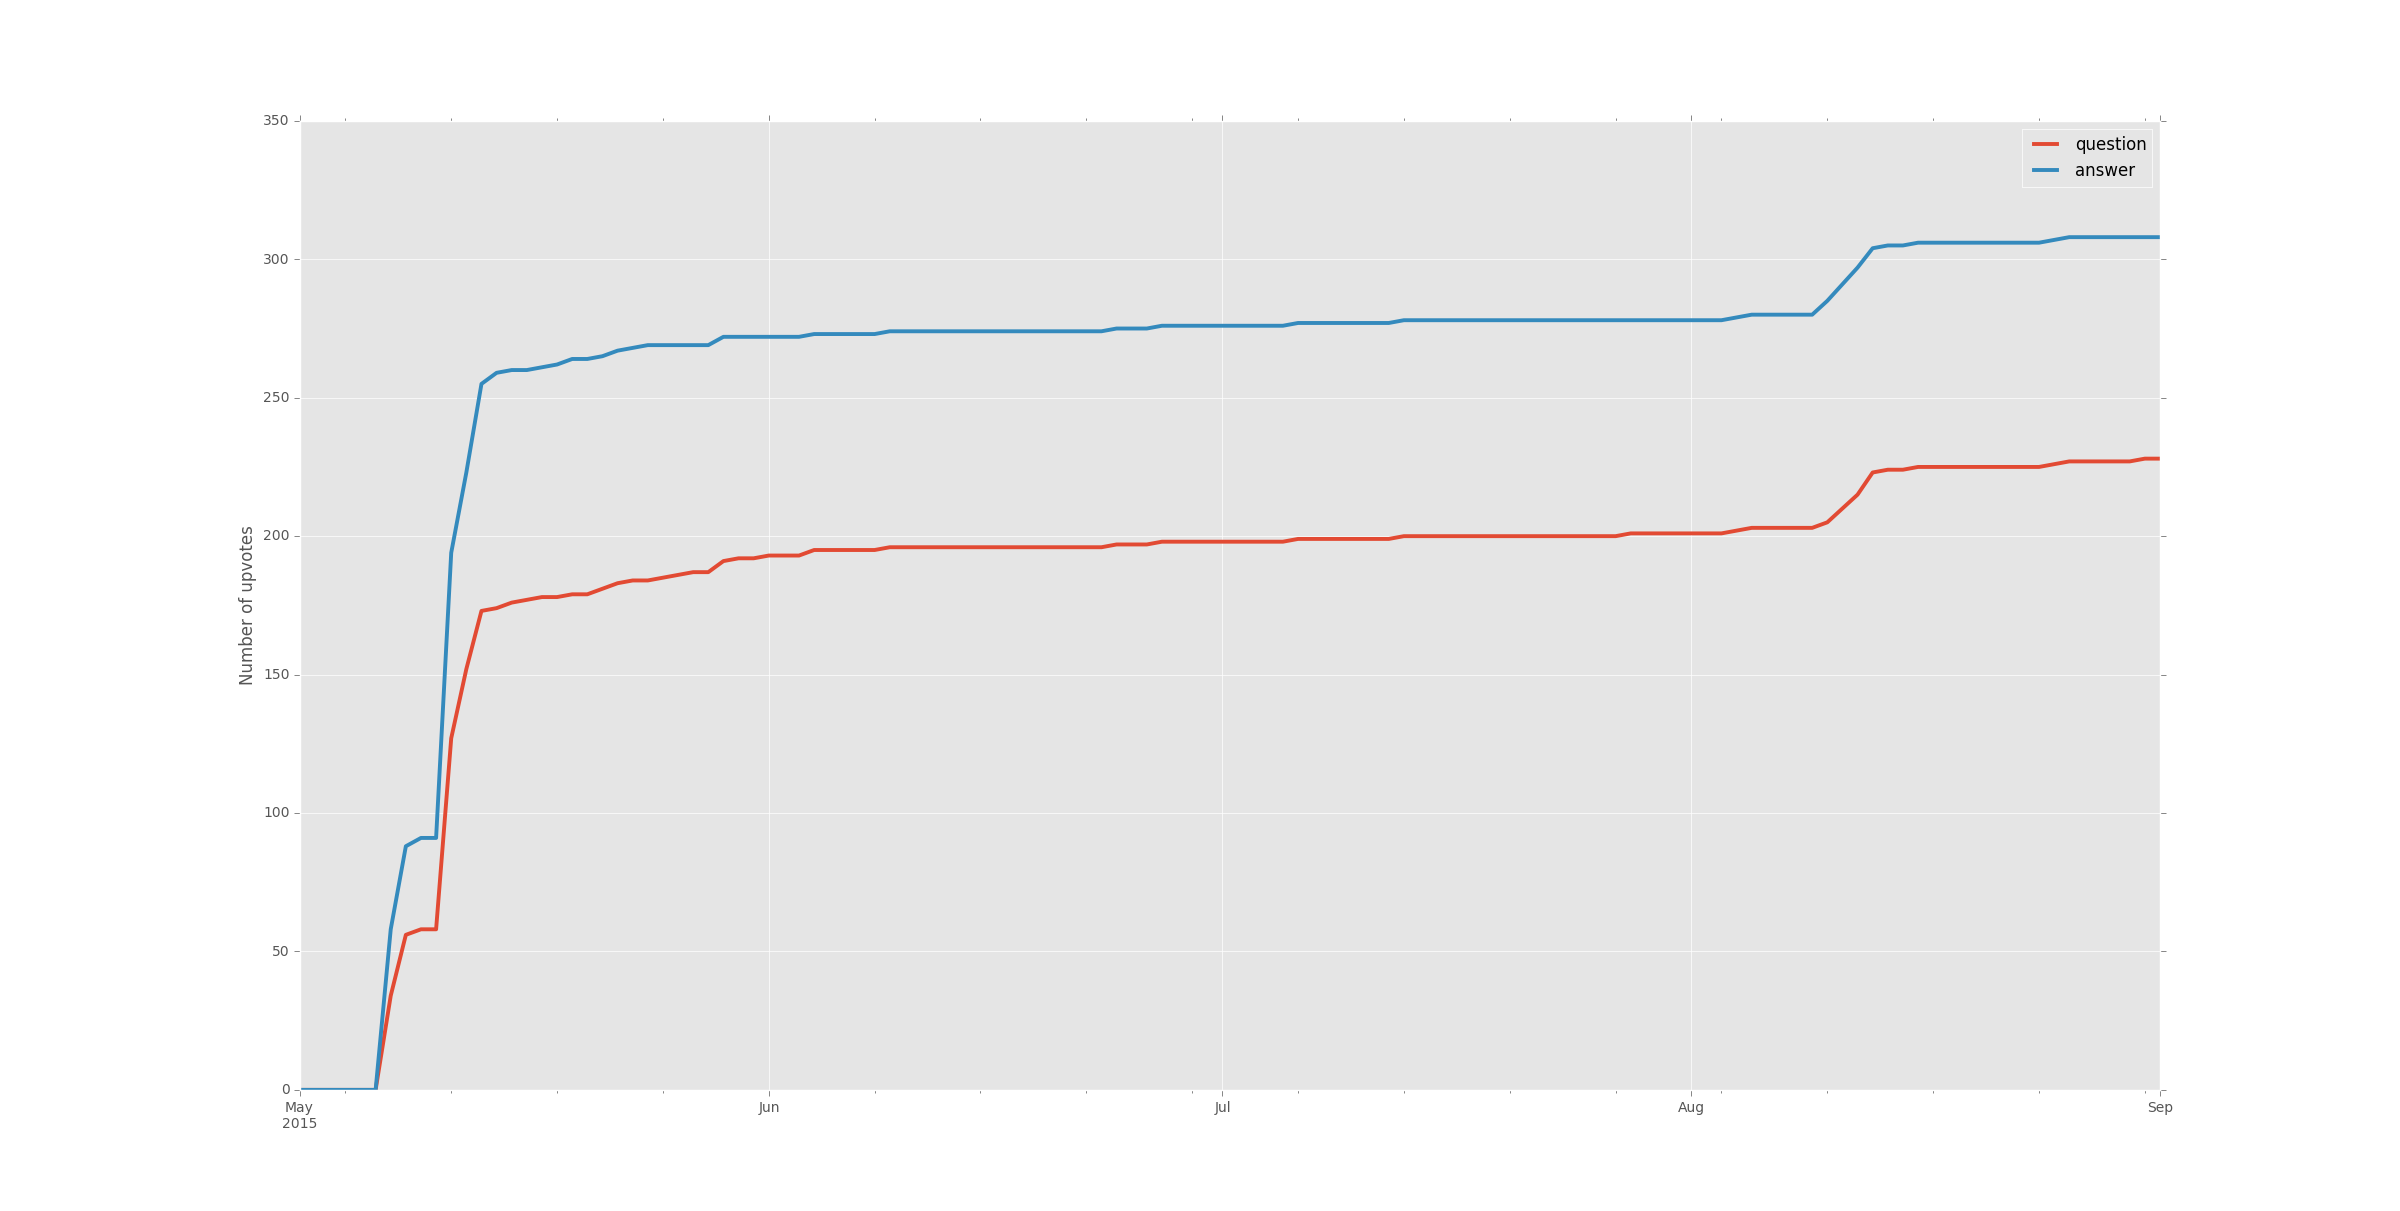
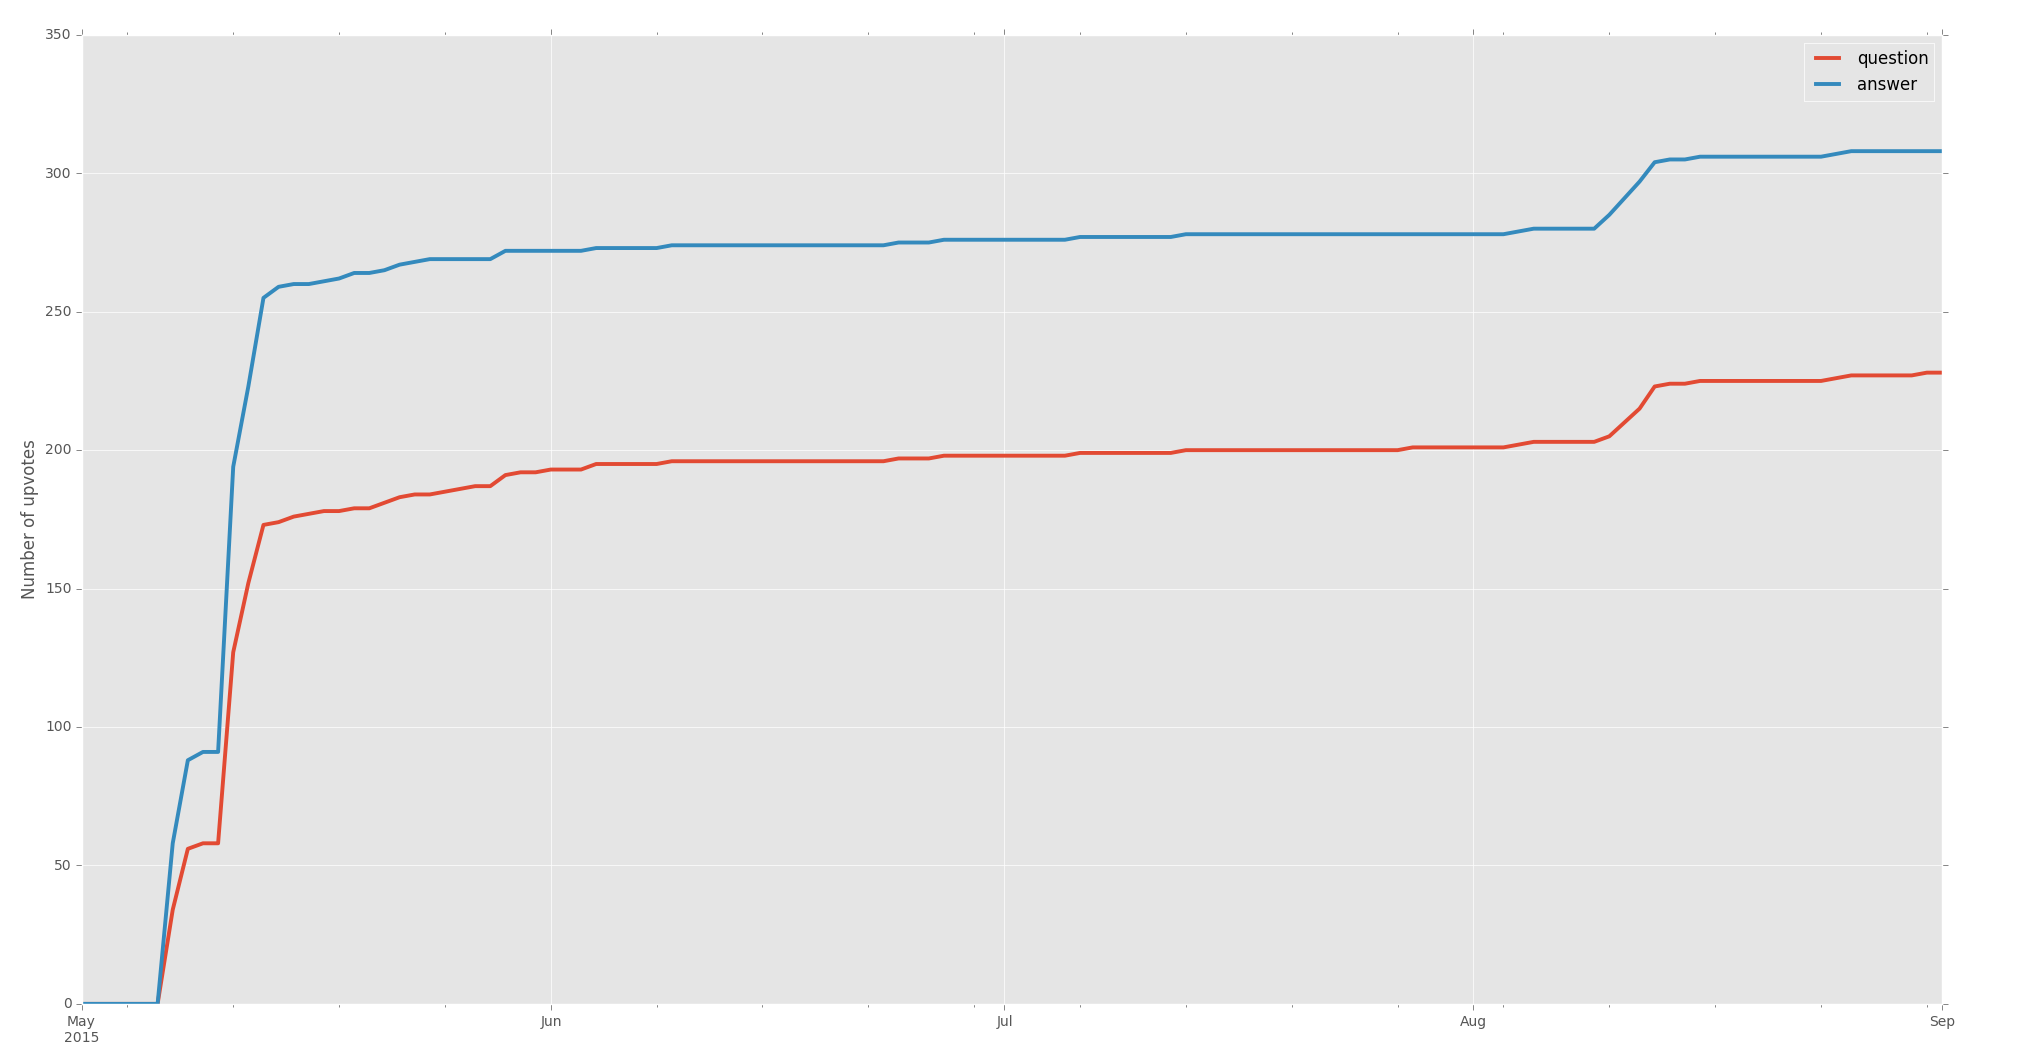
image edit

diff --git a/_posts/2015-9-5-stack-overflow-upvotes.md b/_posts/2015-9-5-stack-overflow-upvotes.md
@@ -64,16 +64,16 @@ That said, you have easy access to all of the dates that your own posts were vot
 
 As a case study, I'll look at a [question and answer I posted](http://stackoverflow.com/q/30100725/3923281) a while ago. I'd stumbled upon the intricacies of comparing arbitrarily-large integers and floats in Python and wanted to write things up as best I could. The graph below shows how my question/answer was upvoted each day, from publication in May 2015 to the end of August 2015: 
 
-<img src="{{ site.baseurl }}/images/upvotes-over-time.png" "upvotes-over-time" style="width: 1000px;"/>
+<img src="{{ site.baseurl }}/images/upvotes-over-time.png" "upvotes-over-time" />
 
 
-This graph can be divided into three distict parts:
+This graph can be divided visually into three distict parts:
 
 1. The initial surge of upvotes. The post is new and getting a lot of views; two days in and the answer has been upvoted nearly 100 times. After that comes the weekend: a couple of votes on Saturday and nothing on Sunday (did I mention weekends are quiet on Stack Overflow?) On Monday, an avalanche of views and upvotes hits and over the next few days the answer has over 250 upvotes with the question not too far behind.
 
 2. The drift into obscurity. The post is no longer brand new and suddenly gets far fewer views and upvotes. In fact, in the two months between the start of June and end of July, the question was upvoted just 9 times and the question only 6 times. As far as I've seen, this fate is inevitable on Stack Overflow; the site is huge and only very few questions sustain an impressive rate of views and upvotes.
 
-3. The Meta effect. The post is mentioned in a Meta question and large number of users view it out of interest resulting in two-dozen or so upvotes for both the question and answer. The question soon drops off the front page of Meta and the post returns once again to the background of Stack Overflow.
+3. The Meta effect. In early August, the post is mentioned in a Meta question and large number of users view it out of interest resulting in two-dozen or so upvotes for both the question and answer. The question soon drops off the front page of Meta and the post returns once again to the background of Stack Overflow.
 
 So unless you promote or improve your old posts, they could well be lost amongst the vast amounts of new material that pours in to Stack Overflow each day. 
 
